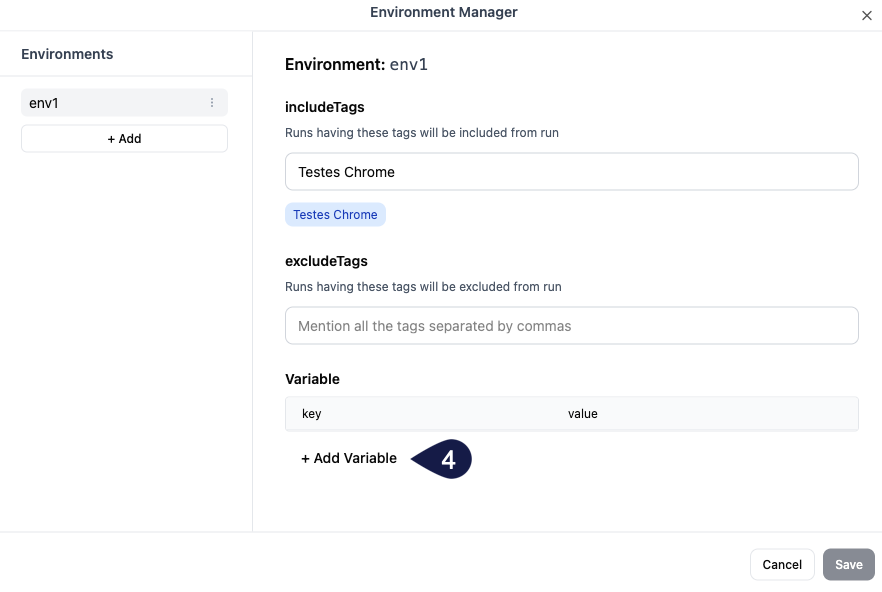
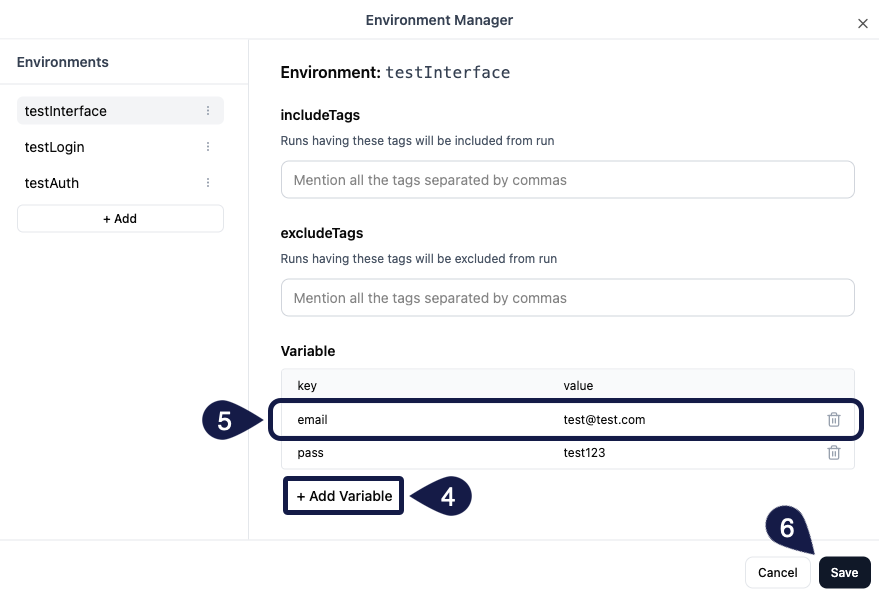
`docs`: update the Start here section name and add the new images.
- Add the new images.
- Update de section's name.

diff --git a/maestro-studio/add-env-var.md b/maestro-studio/add-env-var.md
@@ -29,13 +29,12 @@ To add new variables to your workspace, follow these steps:
 ![Open the Environment options](/images/maestro-studio/environment.png)
 
 4. In the **Environment Manager**, click the **+ Add Variable** button.
-
-![Add an environment variable](/images/maestro-studio/add-var.png)
-
 5. Add the variables as key-value pairs. For example, you can add the following variables:
     - **email**: `test@test.com`.
-    - **password**: `12345678`.
+    - **password**: `test123`.
 6. Click the **Save** button.
+
+![Add an environment variable](/images/maestro-studio/add-var.png)
 
 Now you're ready to use your variables in your flows.
 

diff --git a/SUMMARY.md b/SUMMARY.md
@@ -3,7 +3,7 @@
 * [Home](https://www.maestro.dev)
 * [Star us on GitHub](https://github.com/mobile-dev-inc/maestro)
 
-## Start here with Maestro Studio
+## Start here
 
 * [How to Install Maestro Studio](/maestro-studio/how-to-install.md)
 * [How to run your first test](/maestro-studio/how-to-run-tests.md)
